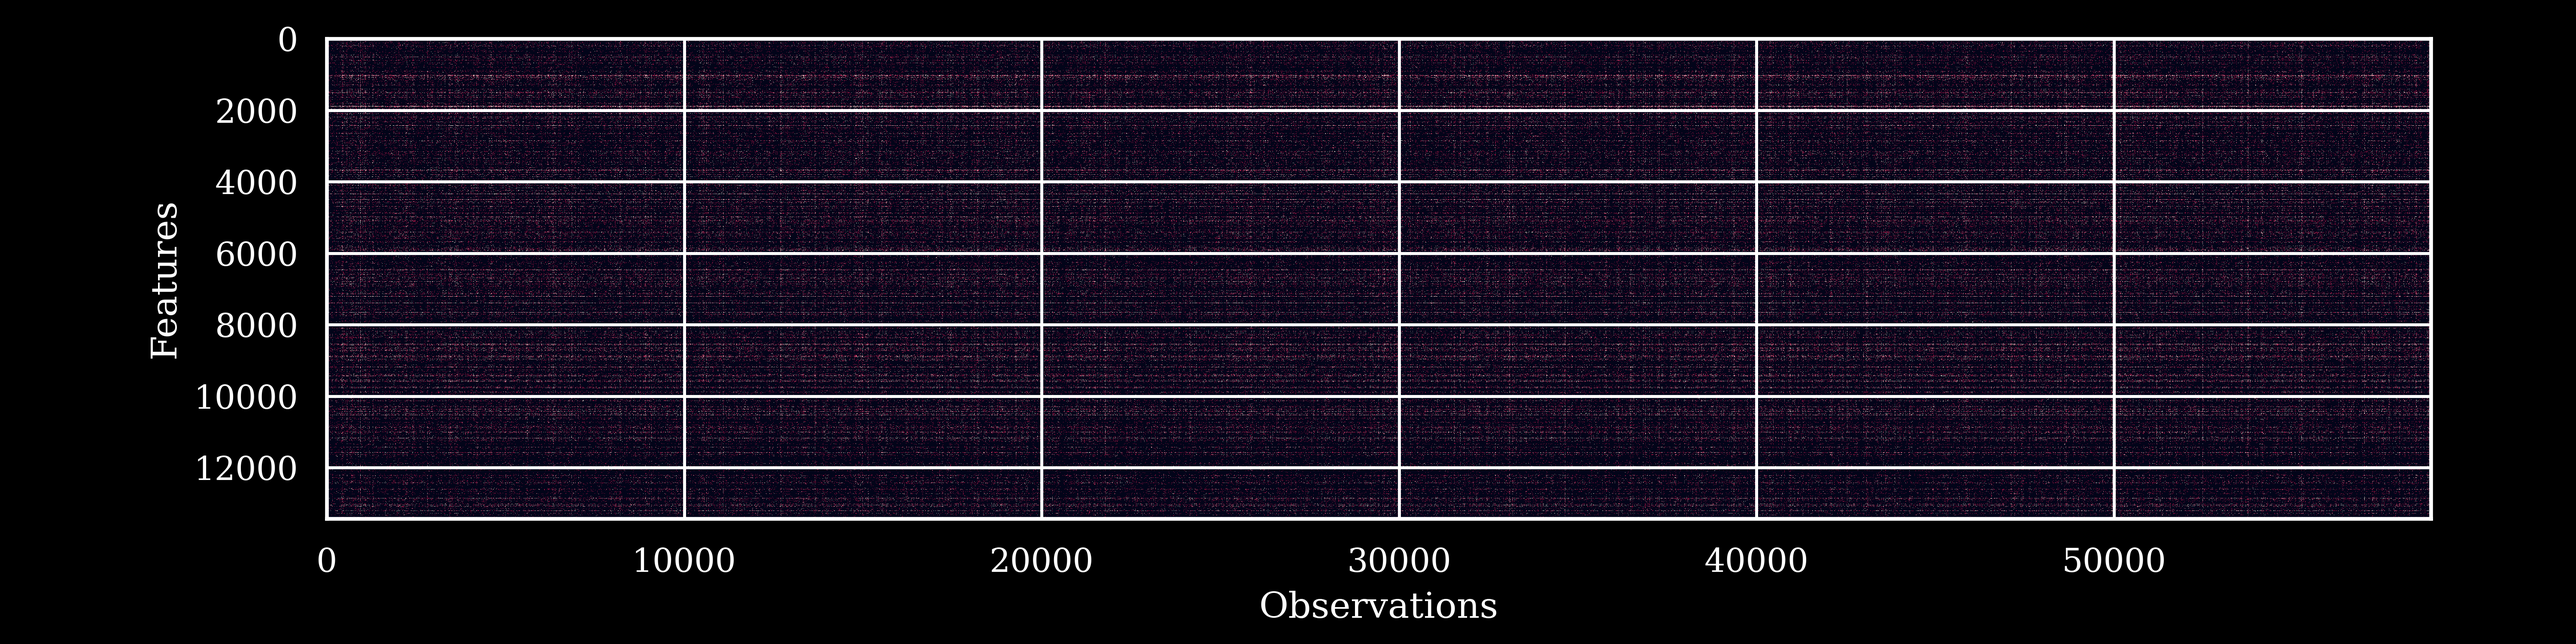
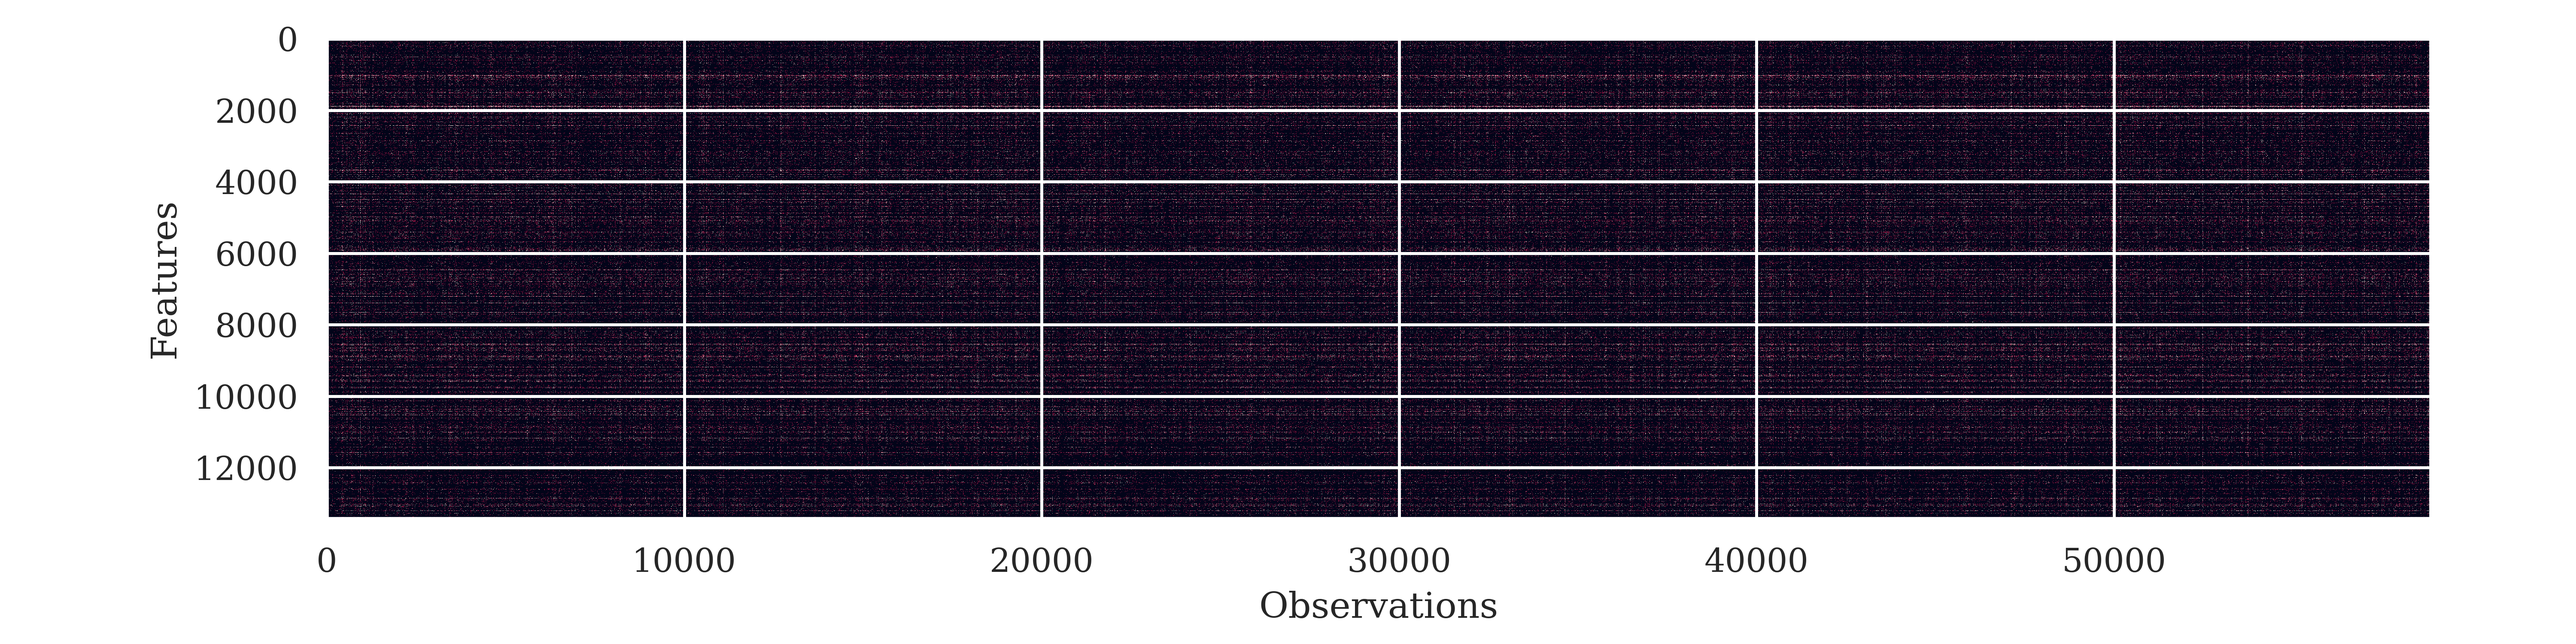
final

diff --git a/src/plot_data.py b/src/plot_data.py
@@ -15,7 +15,7 @@ def plot_heatmap(data):
     ax.set_ylabel("Features")
     ax.set_xlabel("Observations")
     plt.tight_layout()
-    plt.savefig("heatmap.png", dpi=500, transparent=True)
+    plt.savefig("heatmap.png", dpi=500)
 
 
 data = an.read_h5ad("../data/GEX_train_data.h5ad")

diff --git a/README.md b/README.md
@@ -2,6 +2,7 @@
 
 This is repository with implementation of GMVAE following [this paper](https://arxiv.org/abs/1611.02648). It's used to tackle 
 embedding of gene expression data and is accompanied by [blog post](https://wesenheit.github.io/bayes/2023/03/19/GMVAE-clustering-applied-to-RNA-sequencing.html).
+To reproduce the results uv manager is recommended. To measure clustering properties kBET R library is needed.
 
 There is also nice usage of GMVAE to clustering of MNIST dataset which is more user friendly for those who want to skip biological inclinations of problem.
 
